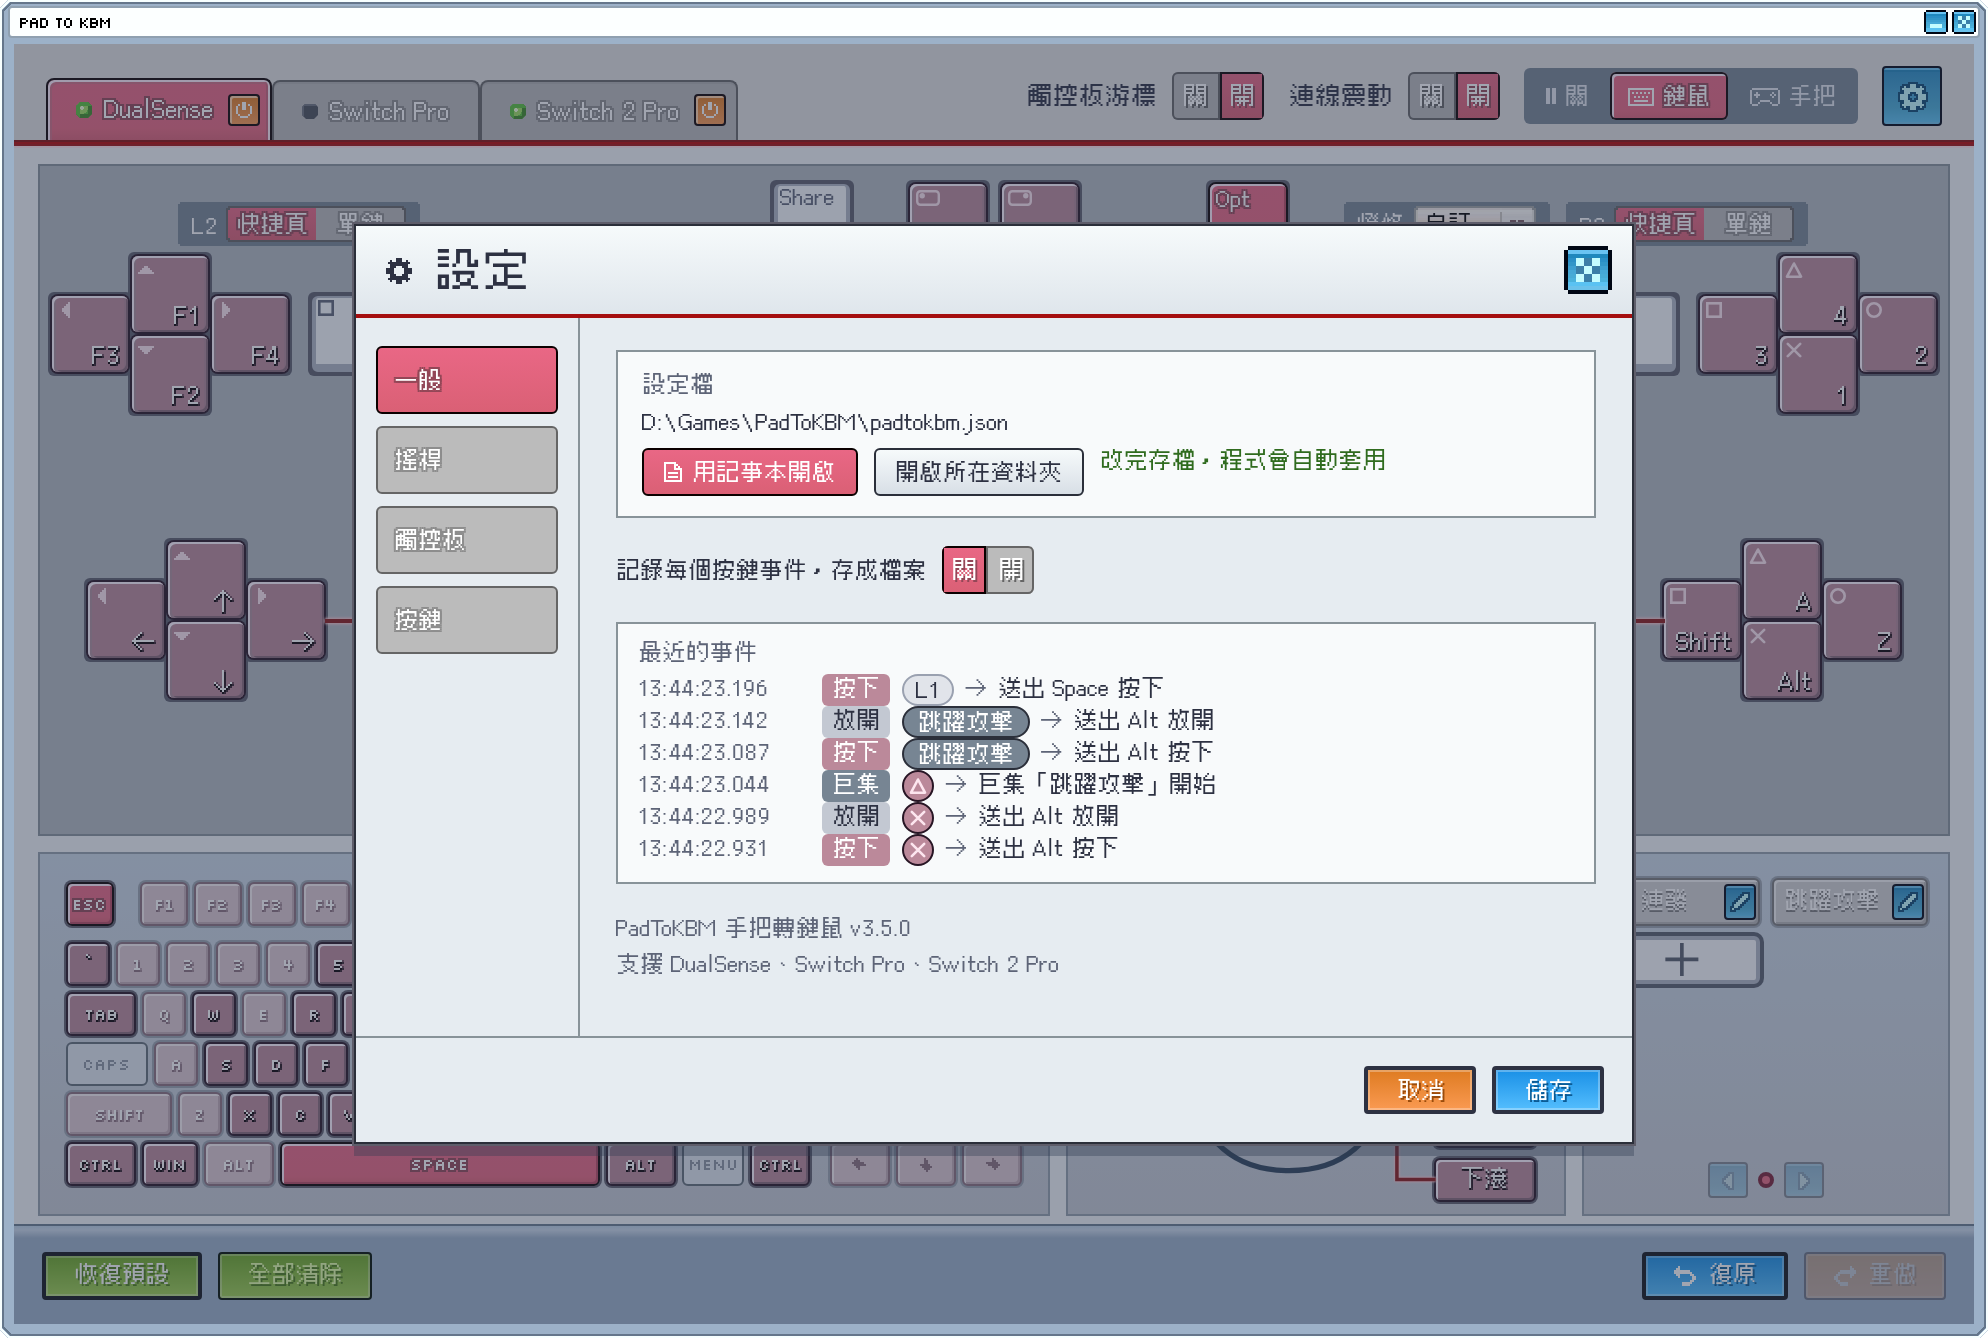
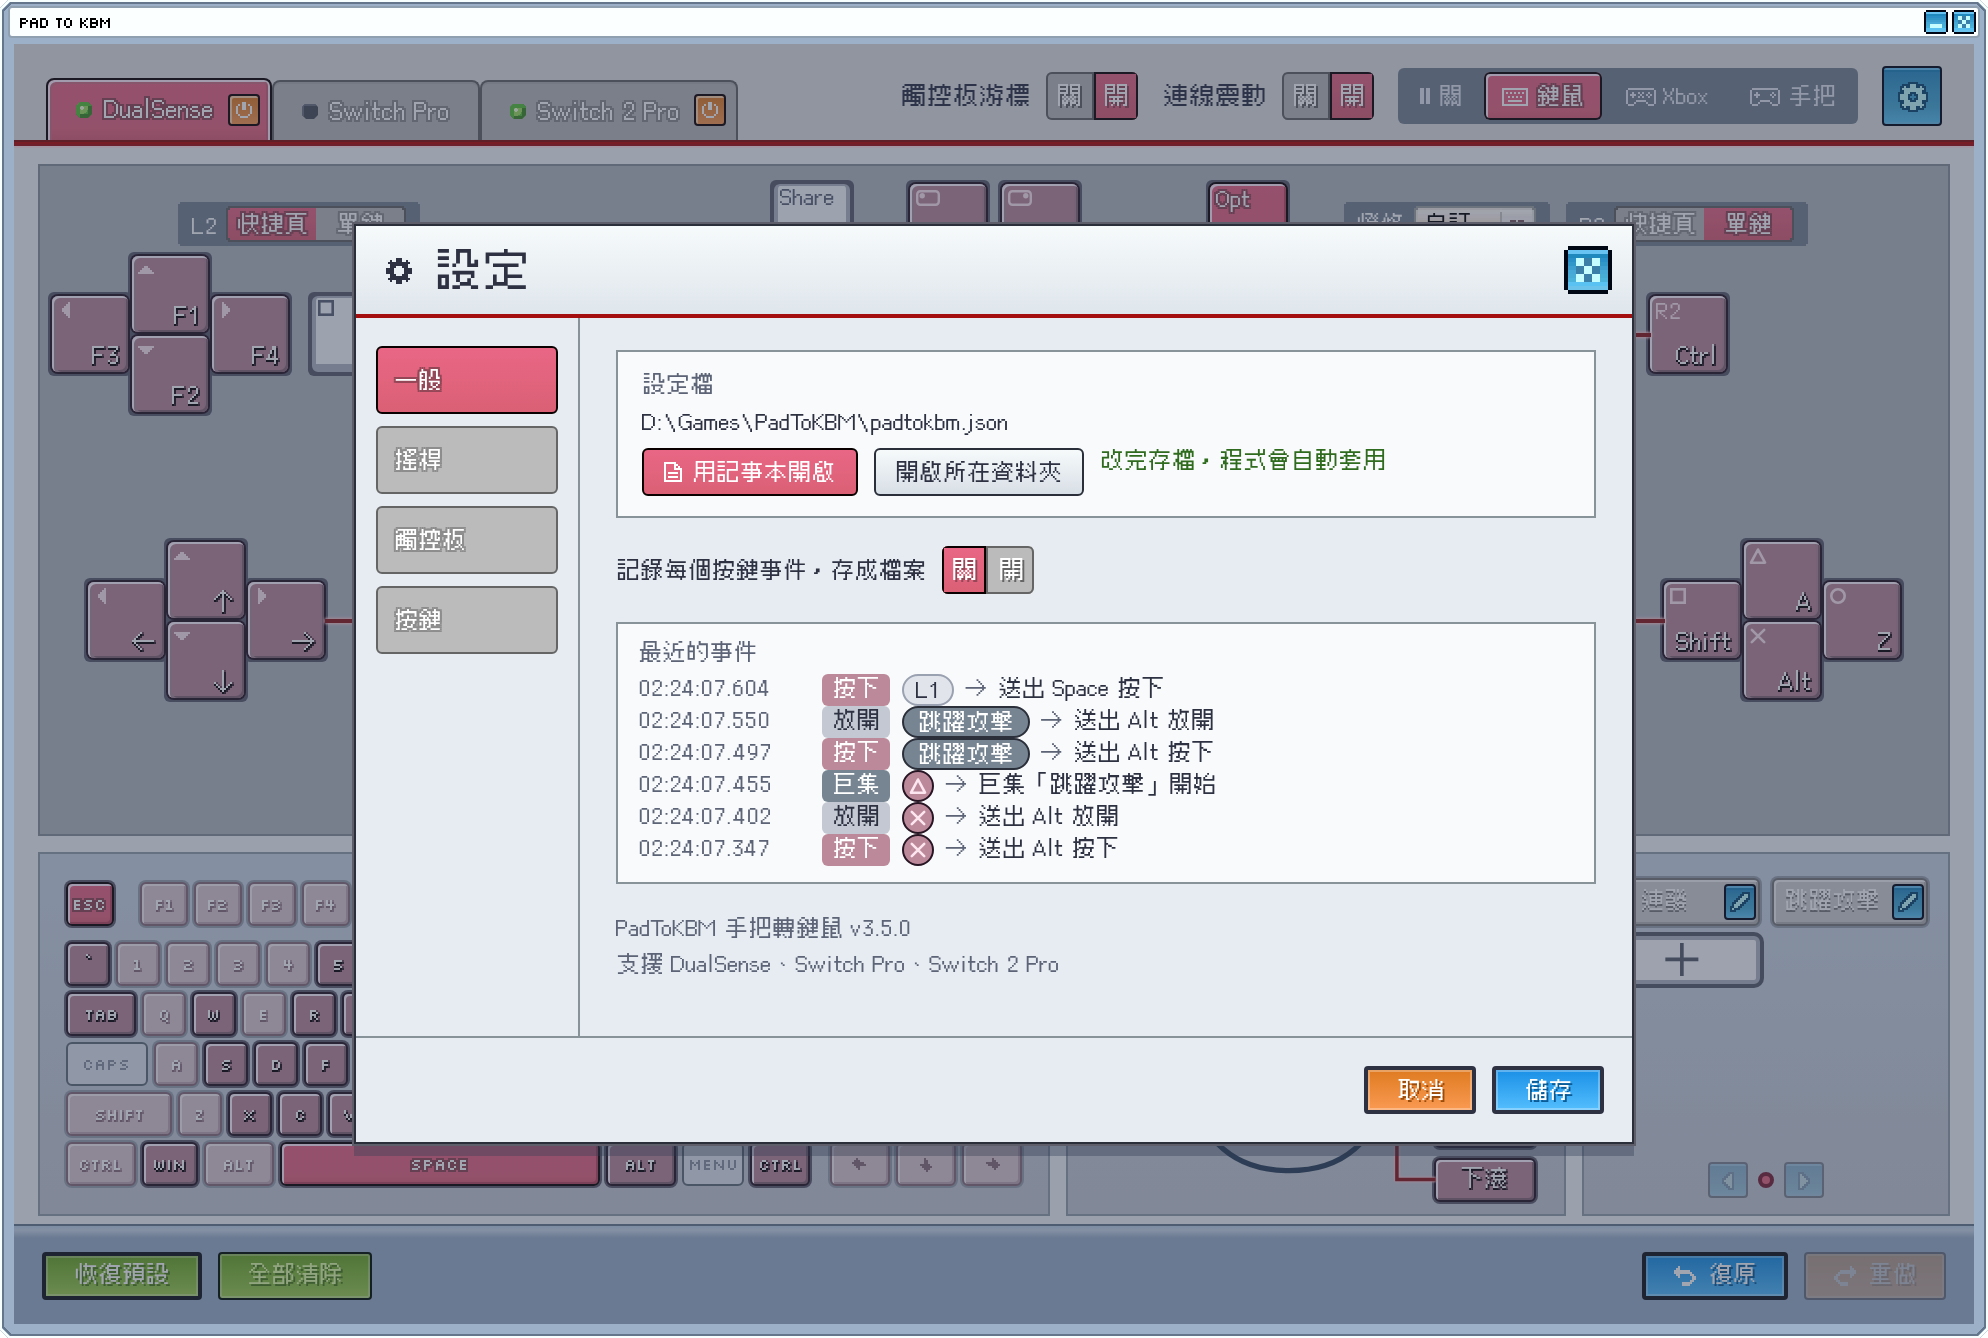
docs: iron rule 7 covers HidHide; CHANGELOG 3.6.0
- CLAUDE.md: iron rule 7 exception is ViGEmBus + HidHide, only while a pad
  is in Xbox output (vigem_setup.rs, hidhide_setup.rs, hidhide.rs; HidHide
  changes limited to the pad's own ids + our exe, undone when Xbox ends);
  rule 3 unplug covers any pad in Xbox mode; anti-cheat bullet names both
  drivers; web-smoke IPC list has set_output_mode, get_xbox_status,
  install_hidhide; Xbox output is a macOS Phase 2 TBD item.
- CHANGELOG: 3.6.0 (Added / Changed / Migration).
- README: 關｜鍵鼠｜Xbox｜手把 wording, a short Xbox / HidHide FAQ; README
  pictures regenerated with the four-segment header.

Claude-Session: https://claude.ai/code/session_018PWF1rQbpKxBKuLSQfwk4d

diff --git a/CLAUDE.md b/CLAUDE.md
@@ -158,10 +158,10 @@ The board's IPC surface the mock answers: reads `get_controller_status`,
 `get_stick_positions`; mutators `set_binding`, `swap_bindings`,
 `set_trigger_mode`, `clear_pad`, `reset_pad`, `set_pad_tables`,
 `set_macro`, `rename_macro`, `delete_macro`, `set_settings`,
-`set_mapping_enabled`, `set_rumble_on_connect`, `set_lightbar`, `save_stick_cal`,
+`set_output_mode`, `set_rumble_on_connect`, `set_lightbar`, `save_stick_cal`,
 `reset_stick_cal`, `set_ui_prefs`; runtime-only `set_pad_off` (header 關,
-returns the off pads, no `config-changed`); ViGEmBus `get_vigem_status`,
-`install_vigem`; fire-and-forget
+returns the off pads, no `config-changed`); Xbox output `get_xbox_status`,
+`get_vigem_status`, `install_vigem`, `install_hidhide`; fire-and-forget
 `set_capture_active`, `disconnect_gamepad`, `open_config_in_editor`,
 `open_config_folder`. Events the board listens for: `controller-status`
 (`connected` bool + `connected_pads` + `off_pads` + `warnings`),
@@ -267,8 +267,8 @@ regresses real, observed bugs the codebase already fixed once:
    against stuck keys / stuck mouse buttons when the process dies or the
    controller drops. `release_all_held` releases every held key **and**
    every held mouse button, and never waits on `min_press_ms` —
-   shutdown beats anti-cheat profile. The virtual Xbox pad (Switch 2 Pro,
-   no-mapping mode) is likewise unplugged on Disconnected, pause, shutdown
+   shutdown beats anti-cheat profile. The virtual Xbox pad (any pad in
+   Xbox output mode) is likewise unplugged on Disconnected, pause, shutdown
    and in the panic hook (`emergency_unplug`); `vigem-client` also unplugs
    on Drop.
 4. **Macro threads drain every unmatched `Press` as `Release` on every
@@ -296,14 +296,19 @@ regresses real, observed bugs the codebase already fixed once:
 7. **No process hooking, no DLL injection, no driver.** User-mode
    `SendInput` (Windows) / `CGEvent` (macOS) only, via the `enigo`
    crate. Anything else lands us in actual cheat-software territory.
-   Single exception (v2.6.0): a virtual Xbox 360 pad through an
-   externally installed ViGEmBus, used only for a controller Windows
-   cannot use natively (the Switch 2 Pro, `ControllerKind::needs_virtual_pad`)
-   and only while its mapping is OFF. The app never ships a driver. On the
-   user's click it may download the pinned official ViGEmBus installer,
-   verify size + sha256, and run it; the user goes through the installer's
-   own elevation prompt (`vigem_setup.rs`, v3.2.0). Hooking and injection
-   stay forbidden.
+   Single exception (v2.6.0, widened in v3.6.0): two externally installed
+   Nefarius drivers, ViGEmBus (a virtual Xbox 360 pad) and HidHide (hides
+   the real pad from games), used only while the user picks Xbox output
+   for a pad (`output_mode` `xbox`; HidHide only for a pad with a native
+   driver, `ControllerKind::has_native_driver`). The app never ships a
+   driver. On the user's click it may download each pinned official
+   installer, verify size + sha256, and run it; the user goes through the
+   installer's own elevation prompt (`vigem_setup.rs`, `hidhide_setup.rs`).
+   User-mode client calls only: the ViGEm client, and HidHide's
+   control-device IOCTLs (`hidhide.rs`). HidHide changes are limited to the
+   pad's own HID instance ids on the blacklist and our exe on the
+   whitelist, merged with the user's existing lists, and undone when Xbox
+   output ends. Hooking and injection stay forbidden.
 8. **The exe is double-clicked, not invoked from a terminal.** Primary
    end-user flow on Windows is Explorer → double-click → GUI window
    opens. That means:
@@ -366,9 +371,9 @@ is the README FAQ「會不會被當成外掛？」):
 - Macro step delays are always `[min, max]` ranges, never constants.
 - Synthesized keys honor `min_press_ms` (randomized minimum down/up gap).
 - Simultaneous events on the same gamepad tick are spread by `tick_jitter_ms`.
-- No process hooking, DLL injection, or driver (the ViGEmBus exception
-  in iron rule 7 aside: never bundled, only the verified official
-  installer on the user's click). User-mode `SendInput` / `CGEvent` only.
+- No process hooking, DLL injection, or driver (the ViGEmBus + HidHide
+  exception in iron rule 7 aside: never bundled, only the verified
+  official installers on the user's click). User-mode `SendInput` / `CGEvent` only.
 - `log_events: true` writes every synthesized event with a timestamp
   so the user can self-audit.
 
@@ -481,5 +486,6 @@ shipped three broken releases under admin override — don't repeat it.
   for the other (Phase 2 macOS is the explicit target — don't add
   Windows-only behaviour without a `#[cfg(target_os = "macos")]`
   counterpart or a deliberate "Phase 2 TBD" CHANGELOG note). The Switch 2
-  Pro (BLE + virtual pad) is such a Phase 2 TBD item on macOS.
+  Pro (BLE + virtual pad) and Xbox output (ViGEmBus + HidHide) are such
+  Phase 2 TBD items on macOS.
 - Tracking `docs/superpowers/` content.

diff --git a/CHANGELOG.md b/CHANGELOG.md
@@ -3,6 +3,60 @@
 Format follows [Keep a Changelog](https://keepachangelog.com/en/1.1.0/);
 project adheres to [Semantic Versioning](https://semver.org/spec/v2.0.0.html).
 
+## [3.6.0] - 2026-10-31
+
+### Added
+
+- **Xbox output for the DualSense and the Switch Pro.** Any controller can
+  now be shown to games as a virtual Xbox 360 pad, for games that only read
+  XInput or read the controller badly. The real DualSense / Switch Pro is
+  hidden from games with HidHide, so a game does not get the same input
+  twice. PadToKBM hides only that controller's own HID devices, lets itself
+  through on HidHide's whitelist, keeps any entries you made in HidHide, and
+  takes its own entries out again when the controller leaves Xbox, when the
+  app exits, and at the next start after a crash.
+- **關｜鍵鼠｜Xbox｜手把 in the header**, per controller. On the Switch 2 Pro
+  手把 is greyed out and does nothing: Windows has no driver for it, so a
+  game cannot read it directly. Its tooltip says to pick Xbox.
+- **One-click installers.** Picking Xbox on a PC that lacks a driver opens a
+  prompt with one row per driver (ViGEmBus, plus HidHide for the DualSense /
+  Switch Pro) and one button: 安裝這兩個, or 安裝 ViGEmBus / 安裝 HidHide
+  when only one is missing. Each is the pinned official installer (ViGEmBus
+  1.22.0, HidHide 1.5.230), downloaded from its GitHub release, checked for
+  size and sha256 and then run (Windows asks for administrator rights). An
+  installer that fails leaves the prompt open with the reason. Until the
+  drivers are in, the controller sends nothing.
+- **Reconnect hint.** A controller that was already connected when it was
+  hidden stays visible to games until it reconnects. A white banner says
+  so: 「再連一次 DualSense，遊戲才看不到原本的手把：按分頁上的 ⏻ 斷開，再按
+  PS 鍵連回來」. It goes away after the reconnect.
+- New IPC: `set_output_mode`, `get_xbox_status`, `install_hidhide`.
+
+### Changed
+
+- **`output_mode` replaces `mapping_enabled`** in `padtokbm.json`:
+  `{ "dualsense": "kbm" | "xbox" | "pad", … }` per controller. The bundled
+  first-run config has `output_mode` and no `mapping_enabled`.
+  `set_output_mode` replaces the `set_mapping_enabled` IPC.
+- The virtual pad is now plugged in off the engine thread. A ViGEmBus that
+  does not answer no longer freezes the window (no status, no events).
+- Iron rule 7 (CLAUDE.md) covers both drivers: never bundled, only the
+  verified official installers on the user's click, user-mode client calls
+  only, and the HidHide changes are limited to the pad's own devices and
+  undone when Xbox output ends.
+
+### Migration
+
+- Old configs keep working. A controller missing from `output_mode` falls
+  back to `mapping_enabled`: `true` is 鍵鼠, `false` is 手把 (Xbox on the
+  Switch 2 Pro). `output_mode` wins when both are there. The old key for a
+  controller is removed the first time you change that controller's mode.
+- A DualSense / Switch Pro on 手把 stays on 手把; pick Xbox to get the
+  virtual pad.
+- Rumble from games is not passed from the virtual Xbox pad to the real
+  controller yet.
+- Xbox output (ViGEmBus + HidHide) is Windows only; macOS is Phase 2 TBD.
+
 ## [3.5.0] - 2026-10-21
 
 ### Added

diff --git a/README.md b/README.md
@@ -28,7 +28,7 @@ PadToKBM（舊名 DualSense Mapper）是一個 Windows 小程式：一個約 11 
 | 一鍵連發、固定招式要按很多下 | **巨集**：錄一串按下／放開，可以循環；每一步的延遲都是「最短～最長」的範圍 |
 | 怕被當成腳本或外掛 | 所有按鍵時間都帶隨機，沒有固定節拍；只用 Windows 一般的按鍵輸入，不注入、不改遊戲 |
 | 鍵卡住放不開 | 手把斷線、關掉程式、程式當掉時，按著的鍵都會放開 |
-| 有時想直接用手把玩 | 右上角每支手把各自選「關｜鍵鼠｜手把」：手把就是程式不送東西、遊戲直接用手把（Switch 2 Pro 變成 Xbox 手把） |
+| 有時想直接用手把玩 | 右上角每支手把各自選「關｜鍵鼠｜Xbox｜手把」：手把就是程式不送東西、遊戲直接用手把；Xbox 是讓遊戲看到一支 Xbox 手把（Switch 2 Pro 只能選 Xbox） |
 
 ---
 
@@ -92,7 +92,7 @@ PadToKBM（舊名 DualSense Mapper）是一個 Windows 小程式：一個約 11 
 
 ### Switch 2 Pro 連上了，遊戲卻沒反應？
 
-先看畫面右上的「關｜鍵鼠｜手把」（Switch 2 Pro 的第三格寫「Xbox」）：
+先看畫面右上的「關｜鍵鼠｜Xbox｜手把」（Switch 2 Pro 的「手把」是灰的：Windows 認不得它）：
 
 - **鍵鼠**（預設）：按鍵送出鍵盤、滑鼠，不需要其他東西。
 - **Xbox**：PadToKBM 把它變成一支虛擬 Xbox 手把給遊戲用，這需要
@@ -103,6 +103,14 @@ PadToKBM（舊名 DualSense Mapper）是一個 Windows 小程式：一個約 11 
 不是「鍵鼠」的時候，下面的按鍵設定會鎖住不能改；要改先切回鍵鼠。
 
 建議用 Windows 11（Windows 10 的藍牙會把它限制在約 17 Hz）。
+
+### 遊戲只認 Xbox 手把，或讀 DualSense／Switch Pro 讀得不好？
+
+選「Xbox」：遊戲會看到一支虛擬 Xbox 手把。DualSense／Switch Pro 另外需要
+[HidHide 1.5.230](https://github.com/nefarius/HidHide/releases/tag/v1.5.230.0)，把原本的手把對遊戲藏起來，遊戲才不會同時讀到兩支。
+缺什麼，選 Xbox 時的提示會列出來，按一下就下載官方安裝程式、核對檔案後執行（會要求系統管理員權限）。
+手把是在藏起來之前就連上的話，要按分頁上的電源鍵斷開、再按 PS／HOME 鍵連回來一次。切回其他模式或關掉程式，手把就不再藏起來。
+遊戲的震動目前還不會轉給手把。
 
 ### 設定檔在哪？可以直接改嗎？
 
